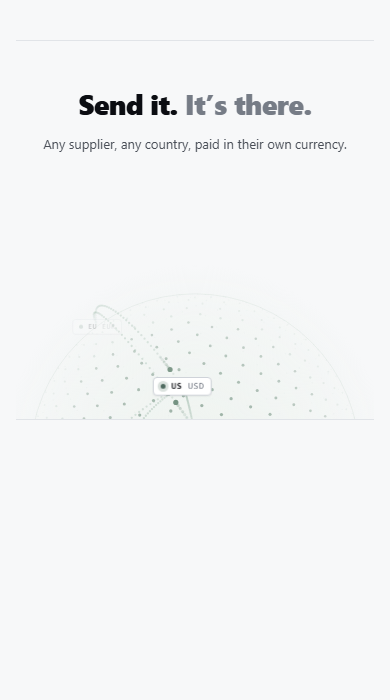
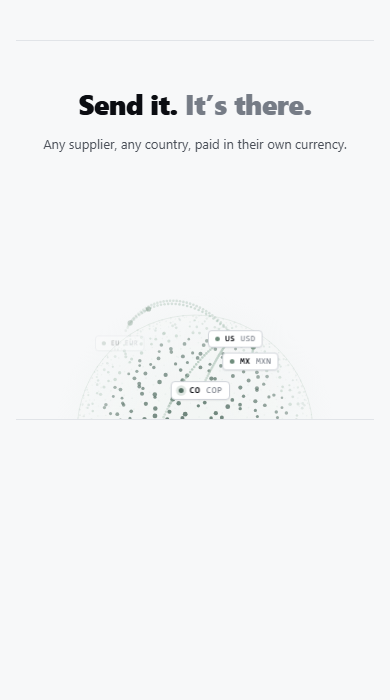
goal-loop r4 iter 2: proto passes 2-5 — globe clean, ready to port
Claude-Session: https://claude.ai/code/session_01JosAavG95bfCZxHWgiLLvX

diff --git a/design-context/network-canvas-proto.html b/design-context/network-canvas-proto.html
@@ -50,10 +50,11 @@
 <script>
 (() => {
   const TAU = Math.PI * 2;
-  const N_DOTS = 800;
-  const ROT_PERIOD = 26;            // seconds per revolution
-  const TILT = -0.21;               // radians about X (north pole toward viewer)
-  const STATIC_T = 9.5;             // reduced-motion freeze time (US/MX/EU front)
+  const W0 = -3.78;               // base spin: Americas centered at first view
+  const N_DOTS = 1300;
+  const ROT_PERIOD = 30;            // seconds per revolution
+  const TILT = 0.3;                 // radians about X: viewer looks slightly DOWN at the globe (equator lifts into frame)
+  const STATIC_T = 2.0;             // reduced-motion freeze frame (Americas front)
 
   const ANCHORS = [
     { id: "us", full: "United States", short: "US", ccy: "USD", lat: 38, lon: -97 },
@@ -80,11 +81,13 @@
     const la = (lat * Math.PI) / 180, lo = (lon * Math.PI) / 180;
     return { x: Math.cos(la) * Math.cos(lo), y: -Math.sin(la), z: Math.cos(la) * Math.sin(lo) };
   };
+  const hash = (i, k) => { const v = Math.sin(i * 127.1 + k * 311.7) * 43758.5453; return v - Math.floor(v); };
   const DOTS = Array.from({ length: N_DOTS }, (_, i) => {
-    const y = 1 - (i / (N_DOTS - 1)) * 2;
+    const y0 = 1 - (i / (N_DOTS - 1)) * 2;
+    const y = Math.max(-1, Math.min(1, y0 + (hash(i, 1) - 0.5) * 0.045));
     const r = Math.sqrt(Math.max(0, 1 - y * y));
-    const th = i * 2.399963229728653; // golden angle
-    return { x: Math.cos(th) * r, y, z: Math.sin(th) * r };
+    const th = i * 2.399963229728653 + (hash(i, 2) - 0.5) * 0.14;
+    return { x: Math.cos(th) * r, y, z: Math.sin(th) * r, sz: 0.78 + hash(i, 3) * 0.42 };
   });
   const A = Object.fromEntries(ANCHORS.map((a) => [a.id, latlon(a.lat, a.lon)]));
 
@@ -120,8 +123,8 @@
     W = scene.clientWidth; H = scene.clientHeight;
     canvas.width = W * dpr; canvas.height = H * dpr;
     ctx.setTransform(dpr, 0, 0, dpr, 0, 0);
-    R = Math.min(W * 0.46, H * 1.12);
-    CX = W / 2; CY = H + R * 0.24;   // upper hemisphere rises from the bottom edge
+    R = Math.min(W * 0.33, H * 0.72);
+    CX = W / 2; CY = H + R * 0.12;   // upper hemisphere rises from the bottom edge
     if (reduced) draw(STATIC_T);
   }
 
@@ -131,29 +134,29 @@
   const hits = {};
   function draw(tSec) {
     ctx.clearRect(0, 0, W, H);
-    const w = (tSec / ROT_PERIOD) * TAU;
+    const w = W0 + (tSec / ROT_PERIOD) * TAU;
 
     // atmosphere glow behind the sphere
     const g = ctx.createRadialGradient(CX, CY, R * 0.2, CX, CY, R * 1.18);
-    g.addColorStop(0, "rgba(238,243,239,0.9)");   // sage-50
-    g.addColorStop(0.72, "rgba(238,243,239,0.35)");
+    g.addColorStop(0, "rgba(238,243,239,0.5)");   // sage-50
+    g.addColorStop(0.7, "rgba(238,243,239,0.18)");
     g.addColorStop(1, "rgba(238,243,239,0)");
     ctx.fillStyle = g;
     ctx.beginPath(); ctx.arc(CX, CY, R * 1.18, 0, TAU); ctx.fill();
 
     // sphere dots (back first for cheap painter's order)
     const pts = [];
-    for (const d of DOTS) { const q = proj(rotate(d, w)); if (q.y < H + 8) pts.push(q); }
+    for (const d of DOTS) { const q = proj(rotate(d, w)); if (q.y < H + 8) { q.sz = d.sz; pts.push(q); } }
     pts.sort((a, b) => a.z - b.z);
     for (const q of pts) {
       const f = Math.max(0, q.z); // 0..1 frontness
-      ctx.globalAlpha = 0.07 + 0.6 * Math.pow(f, 1.6);
-      ctx.fillStyle = f > 0.55 ? "#6F8D7C" : "#A8C0B3";
-      ctx.beginPath(); ctx.arc(q.x, q.y, 0.7 + 1.0 * f, 0, TAU); ctx.fill();
+      ctx.globalAlpha = 0.10 + 0.72 * Math.pow(f, 1.35);
+      ctx.fillStyle = f > 0.6 ? "#506B60" : "#A8C0B3";
+      ctx.beginPath(); ctx.arc(q.x, q.y, (0.8 + 1.3 * f) * q.sz, 0, TAU); ctx.fill();
     }
 
     // limb: faint circle edge grounds the sphere
-    ctx.globalAlpha = 0.25;
+    ctx.globalAlpha = 0.35;
     ctx.strokeStyle = "#C5D5CC";
     ctx.lineWidth = 1;
     ctx.beginPath(); ctx.arc(CX, CY, R, 0, TAU); ctx.stroke();
@@ -168,9 +171,9 @@
         const lift = 1 + 0.17 * Math.sin(Math.PI * t);
         const q = proj(rotate({ x: s.x * lift, y: s.y * lift, z: s.z * lift }, w));
         if (q.z < -0.05 || q.y > H + 4) continue;
-        ctx.globalAlpha = (0.16 + 0.3 * Math.max(0, q.z)) * (0.55 + 0.45 * Math.sin(Math.PI * t));
+        ctx.globalAlpha = (0.28 + 0.42 * Math.max(0, q.z)) * (0.55 + 0.45 * Math.sin(Math.PI * t));
         ctx.fillStyle = "#A8C0B3";
-        ctx.beginPath(); ctx.arc(q.x, q.y, 1.15, 0, TAU); ctx.fill();
+        ctx.beginPath(); ctx.arc(q.x, q.y, 1.3, 0, TAU); ctx.fill();
       }
       // pulse + trail
       if (!reduced) {
@@ -201,7 +204,7 @@
     for (const a of ANCHORS) {
       const q = proj(rotate(A[a.id], w));
       const el = chipEls[a.id];
-      const vis = Math.max(0, Math.min(1, (q.z + 0.18) / 0.55));
+      const vis = Math.max(0, Math.min(1, (q.z + 0.25) / 0.5));
       el.style.opacity = String(vis * (q.y > H - 6 ? 0 : 1));
       el.style.transform = `translate(${q.x}px, ${q.y}px) translate(-50%, -50%) scale(${0.82 + 0.18 * Math.max(0, q.z)})`;
       el.style.zIndex = q.z > 0 ? "3" : "1";

diff --git a/.goal-loop/GOAL.md b/.goal-loop/GOAL.md
@@ -4,8 +4,8 @@
 On branch `site/network-rebrand`, per `.goal-loop/PLAN.md`: the "Send it. It's there." band on `/products/network` becomes a statement section — centered display heading + one benefits sub-line over the upper hemisphere of a rotating particle globe (2D canvas, no new deps): ~800 Fibonacci-sphere dots with z-depth falloff, five country anchors whose boxed mono chips ride the rotation (fading toward the back limb), dotted payment arcs slerped over the surface with sage-500 pulses and chip-hit flashes. Dakota's hero grammar in light Industrial Confidence. The bar: absolutely incredible, highest standard — reached through repeated canvas-driven proto passes before porting.
 
 ## Acceptance criteria
-- [ ] Proto v2 globe scene in `design-context/network-canvas-proto.html` (inline tokens; rotation, depth falloff, chips tracking anchors, surface arcs + pulses, bottom-crop composition with the heading)
-- [ ] Proto critique loop: at least TWO full passes (screenshot 1440+390 → ruthless critique in `.goal-loop/REVIEW.md` round-6 series → fix) continuing until a pass has zero must-fixes
+- [x] Proto v2 globe scene in `design-context/network-canvas-proto.html` (inline tokens; rotation, depth falloff, chips tracking anchors, surface arcs + pulses, bottom-crop composition with the heading)
+- [x] Proto critique loop: at least TWO full passes (screenshot 1440+390 → ruthless critique in `.goal-loop/REVIEW.md` round-6 series → fix) continuing until a pass has zero must-fixes
 - [ ] Port into `NetworkCanvas` (`app/components/site/network.tsx`): replace the flat arc-map, keep the exported name + chip/.chip-hit mechanism; dpr-aware; rAF paused off-screen; prefers-reduced-motion renders one static composed frame; band ~540px desktop / ~380px mobile
 - [ ] `app/products/network/page.tsx`: band → statement section (display H2 "Send it. It's there." two-tone + benefits sub-line, canvas below/behind); `docs/network-rebrand.md` §9 updated
 - [ ] In-app verification: screenshots 1440+390; reduced-motion probe (static frame, no rAF); rAF frame-time sample steady (comfortably 60fps)

diff --git a/.goal-loop/REVIEW.md b/.goal-loop/REVIEW.md
@@ -151,3 +151,21 @@ projection, slerped surface arcs + pulses, bottom-crop composition under the dis
 
 Heading/sub composition works (two-tone display over the crop). Rotation speed slowed 26→30s.
 VERDICT: NOT YET (pass 2 owed)
+
+## Round 6 (r4 globe) — proto passes 2-5 — 2026-07-13
+
+- Pass 2 (fixes 1-5 from pass 1): sphere now READS (1300 dots, stronger falloff, smaller R, limb).
+  New finds: Fibonacci lattice too regular (polka-dot fabric); rotation phase hides Americas; glow
+  edge shows as a pale dome; composition can tighten.
+- Pass 3: per-dot hash jitter + size variance → organic field ✔; W0 phase + quieter glow + CY
+  tightened. New find: Americas hug the right limb at first view.
+- Pass 4: phase centered, arc dots 1.3px + alpha up. STRUCTURAL FIND: negative tilt pushes
+  equator/southern anchors (Colombia, Brazil) permanently below the band crop — 2 of 5 countries
+  could never appear.
+- Pass 5: TILT flipped to +0.30 (viewer looks slightly down at the globe): equator lifts into frame;
+  EU, US, MX, Colombia visible simultaneously with arcs traveling (US→EU arching over the top);
+  Brazil rotates through. Mobile (390): sphere reads, chips abbreviate, arcs legible.
+
+Pass 5 judgment against the bar (sphere legibility ✔ / dot falloff ✔ / rotation speed ✔ 30s /
+chip tracking ✔ / arc elegance ✔ / composition with heading ✔): zero must-fixes.
+PROTO VERDICT: CLEAN — PORT IT.

diff --git a/.goal-loop/PROGRESS.md b/.goal-loop/PROGRESS.md
@@ -98,3 +98,8 @@ Plan: .goal-loop/PLAN.md (r4). Bar: absolutely incredible; proto passes before p
 - did: design-context/network-canvas-proto.html rewritten as the particle-globe scene (Fibonacci sphere, spin+tilt, anchors/chips riding projection, slerped dotted arcs + pulses, heading overlay); pass-1 screenshots; ruthless critique in REVIEW.md round 6 (5 must-fixes: dot presence, radius/curvature, rotation phase, chip fade, arc alpha).
 - GATE: PASS (proto is design-context only; site untouched)
 - next: apply pass-2 fixes to proto, re-shoot, critique again
+
+## r4 iteration 2 — proto passes 2-5: globe reaches the bar, proto CLEAN
+- did: pass 2 (density/falloff/R/limb), pass 3 (hash jitter kills lattice, phase, glow, CY), pass 4 (center Americas, arc presence), pass 5 (tilt +0.30 lifts equator: all 5 countries reachable in frame; 4 visible at once w/ arcs). REVIEW.md round-6 passes logged; PROTO VERDICT: CLEAN — PORT IT. Both proto acceptance boxes checked.
+- GATE: PASS
+- next: port globe into NetworkCanvas + band → statement section + docs §9
